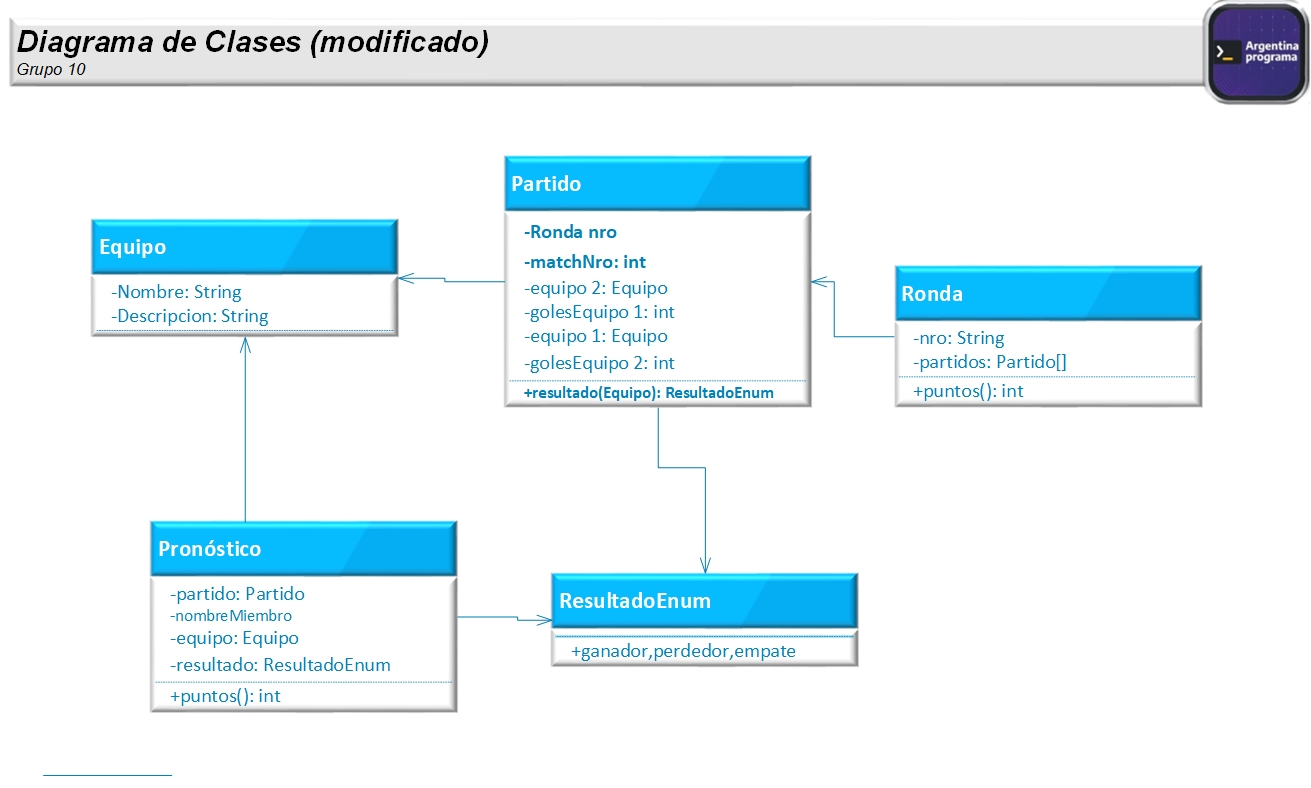
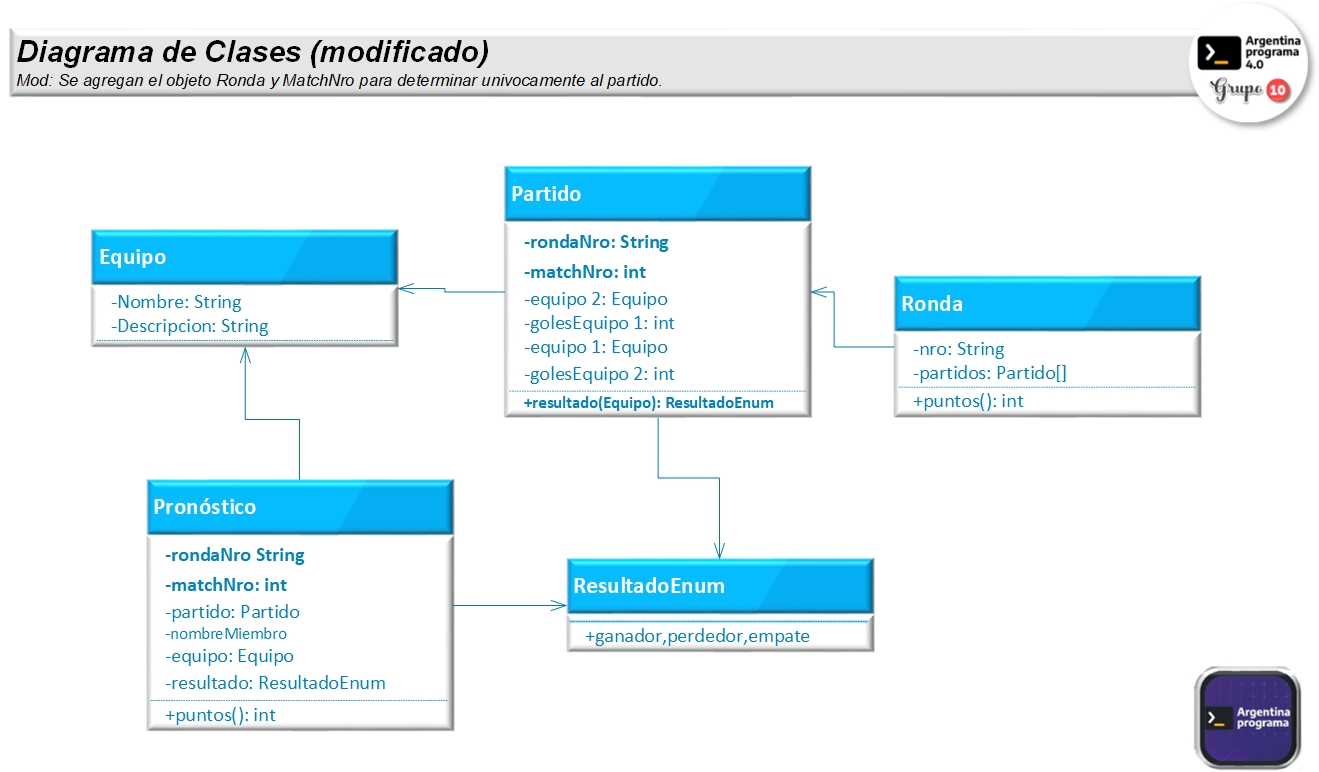
ajustes en los datos univocos de cada partido

diff --git a/src/App/App.java b/src/App/App.java
@@ -29,15 +29,16 @@ public class App {
 
     List<Partido> leerResultados() {
         // inicializo variables
-        int nroDeRonda = 1;
-        int nroDeMatch = 0;
-        Ronda ronda = new Ronda(nroDeRonda, null);
+        String nroDeRonda = "1"; // por definición 
+        int nroDeMatch = 0; // inicializo en 0, por def el archivo viene en orden
+       // Ronda ronda = new Ronda(nroDeRonda, null);
         Scanner scResu = null;
         // inicializo variables
         // crear una variable de tipo Equipo
         Equipo  equipoUno = new Equipo(null, null);
         Equipo  equipoDos = new Equipo(null, null);
-        Partido partido  =  new Partido(equipoUno, equipoDos, 0, 0, ronda, nroDeMatch);
+        // creo un objeto partido con valores nulos para usarlo en el while como soporte de los datos
+        Partido partido  =  new Partido(equipoUno, equipoDos, 0, 0, nroDeRonda, nroDeMatch);
         File resultados = new File("C:\\Users\\Willy\\Desktop\\TrabajoPrácticoIntegrador\\PronosticosDeportivos\\PronDep\\resultados.csv");
         // leer archivo resultados.cvs y lo guardo en unacoleccion de objetos Partido
         List<Partido> partidosList = new ArrayList<Partido>();
@@ -60,7 +61,7 @@ public class App {
                 partido.setGolesEquipo1(goles1);
                 partido.setGolesEquipo2(goles2);
                 partido.setMatchNro(nroDeMatch);
-                partido.setRonda(ronda);
+                partido.setRondaNro(nroDeRonda);
               // agrego el partido al array de partidos
                 partidosList.add(partido);
             }

diff --git a/src/App/Partido.java b/src/App/Partido.java
@@ -4,7 +4,7 @@ import java.util.List;
 
 
 public class Partido {
-    private Ronda nro;
+    private String rondaNro;
     private int matchNro; 
     private Equipo equipo1;
     private Equipo equipo2;
@@ -12,12 +12,12 @@ public class Partido {
     private int golesEquipo2;
    
 
-    public Partido(Equipo equipoUno, Equipo equipoDos, int goles1, int goles2, Ronda rondaNro, int matchNro) {
+    public Partido(Equipo equipoUno, Equipo equipoDos, int goles1, int goles2, String  rondaNro, int matchNro) {
         this.equipo1 = equipoUno;
         this.equipo2 = equipoDos;
         this.golesEquipo1 = goles1;
         this.golesEquipo1 = goles2; 
-        this.nro = rondaNro;
+        this.rondaNro = rondaNro;
         this.matchNro = matchNro;
     }
 
@@ -44,8 +44,8 @@ public class Partido {
     public int getMatchNro() {
         return this.matchNro;
     }
-    public Ronda getRonda() {
-        return this.nro;
+    public String getRondaNro() {
+        return this.rondaNro;
     }
     public Equipo getEquipo1() {
         return this.equipo1;
@@ -75,8 +75,11 @@ public class Partido {
         this.matchNro = nro;
     }
 
-    public void setRonda(Ronda ronda) {
-        this.nro = ronda;
+    public void setRondaNro(String rondaNro) {
+        this.rondaNro = rondaNro;
     }
+
+
+
     
 }

diff --git a/src/App/Pronostico.java b/src/App/Pronostico.java
@@ -1,17 +1,20 @@
 package App;
 
 public class Pronostico {
-
+    private String rondaNro;
+    private int matchNro; 
     private Partido partido;
     private Equipo equipo;
     private ResultadoEnum resultadoPronosticado;
 
 
 
-    public Pronostico(Partido partido, Equipo equipo, ResultadoEnum resultadoPronosticado ) {
+    public Pronostico(Partido partido, Equipo equipo, ResultadoEnum resultadoPronosticado, String rondaNro, int matchNro ) {
         this.partido = partido;
         this.equipo = equipo;
         this.resultadoPronosticado = resultadoPronosticado;
+        this.rondaNro = rondaNro;
+        this.matchNro = matchNro;
 
     }
     public int getPuntos() {
@@ -46,7 +49,12 @@ public class Pronostico {
     public void setResultadoPronosticado(ResultadoEnum resultadoPronosticado) {
         this.resultadoPronosticado = resultadoPronosticado;
     }
-
+    public String getRonda() {
+        return this.rondaNro;
+    }
+    public int getMatchNro() {
+        return this.matchNro;
+    }
 
 }
 

diff --git a/src/App/Ronda.java b/src/App/Ronda.java
@@ -1,20 +1,20 @@
 package App;
 public class Ronda {
-    private int nro;
+    private String nro;
     private Partido[] partidos;
 
-    public Ronda(int nro, Partido[] partidos) {
+    public Ronda(String  nro, Partido[] partidos) {
         this.nro = nro;
         this.partidos = partidos;
     }
-    public int getNro() {
+    public String getNro() {
         return this.nro;
     }
     public Partido[] getPartidos() {
         return this.partidos;
     }
     
-    public void setNro(int nro) {
+    public void setNro(String nro) {
         this.nro = nro;
     }
     public void setPartidos(Partido[] partidos) {
